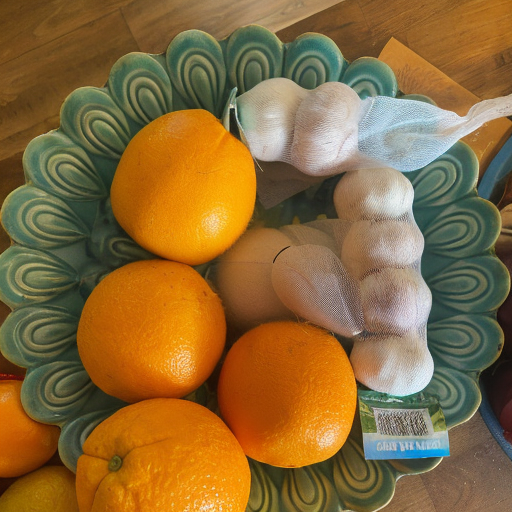
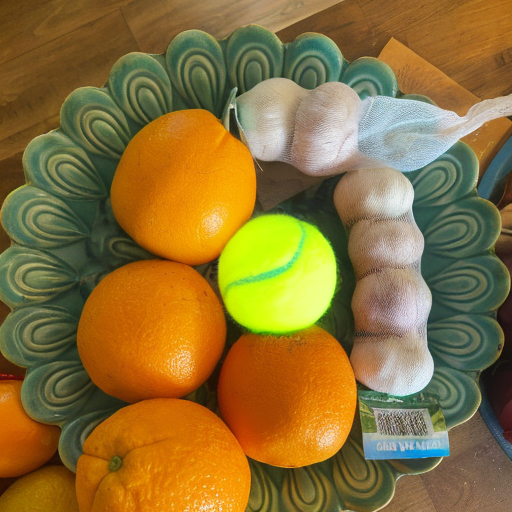
add resampling

Changed region(s): [[0.4062, 0.4062, 0.7812, 0.6875], [0.7188, 0.8125, 0.8438, 0.8438]]

diff --git a/improved_pipeline.py b/improved_pipeline.py
@@ -23,35 +23,43 @@ class ImprovedInpaintPipeline(InpaintPipeline):
     def denoise(self, text_embeddings, init_latents, mask_tensor, num_inference_steps=50):
         self.scheduler.set_timesteps(num_inference_steps, device=self.device)
         latents = torch.randn_like(init_latents)
+        
+        resample_jumps = 2
 
         for i, t in enumerate(self.scheduler.timesteps):
-            # Expand latents for classifier free guidance
-            latent_model_input = torch.cat([latents] * 2)
-            latent_model_input = self.scheduler.scale_model_input(latent_model_input, t)
 
-            # Predict noise
-            with torch.no_grad():
-                noise_pred = self.unet(latent_model_input, t, encoder_hidden_states=text_embeddings).sample
-
-            # Perform guidance
-            noise_pred_uncond, noise_pred_text = noise_pred.chunk(2)
-            noise_pred = noise_pred_uncond + 7.5 * (noise_pred_text - noise_pred_uncond)
-
-            # Step the scheduler
-            latents = self.scheduler.step(noise_pred, t, latents).prev_sample
-
-            # --- THE VANILLA INPAINTING MAGIC HAPPENS HERE ---
+            # compute timestep
             if i < len(self.scheduler.timesteps) - 1:
                 t_next = self.scheduler.timesteps[i + 1]
             else:
                 t_next = torch.tensor([0], device=self.device)
+            
+            for j in range(resample_jumps):
+                # Expand latents for classifier free guidance
+                latent_model_input = torch.cat([latents] * 2)
+                latent_model_input = self.scheduler.scale_model_input(latent_model_input, t)
+                noise_pred = self.unet(latent_model_input, t, encoder_hidden_states=text_embeddings).sample
 
-            # 1. Add noise to the original image matching the level we JUST stepped to
-            noise = torch.randn_like(init_latents)
-            noisy_init_latents = self.scheduler.add_noise(init_latents, noise, t_next)
+                # Perform guidance
+                noise_pred_uncond, noise_pred_text = noise_pred.chunk(2)
+                noise_pred = noise_pred_uncond + 7.5 * (noise_pred_text - noise_pred_uncond)
 
-            # 2. Blend the accurately aligned latents
-            latents = (noisy_init_latents * (1 - mask_tensor)) + (latents * mask_tensor)
+                # Step the scheduler
+                latents_t_next = self.scheduler.step(noise_pred, t, latents).prev_sample
+
+
+                # 1. Add noise to the original image matching the level we JUST stepped to
+                noise = torch.randn_like(init_latents)
+                noisy_background = self.scheduler.add_noise(init_latents, noise, t_next)
+                
+                # 2. Blend the accurately aligned latents
+                blended_latents = (noisy_background * (1 - mask_tensor)) + (latents_t_next * mask_tensor)
+
+            if j < resample_jumps - 1:
+                jump_noise = torch.randn_like(init_latents)
+                latents = self.scheduler.add_noise(blended_latents, jump_noise, t)
+            else:
+                latents = blended_latents
         return latents
             
     def prepare_mask_tensor(self, mask_image):

diff --git a/vanilla_pipeline.py b/vanilla_pipeline.py
@@ -54,7 +54,7 @@ class InpaintPipeline(SD2InpaintingPipeLineScheme):
         self.scheduler.set_timesteps(num_inference_steps, device=self.device)
         latents = torch.randn_like(init_latents)
 
-        for i, t in tqdm(enumerate(self.scheduler.timesteps)):
+        for i, t in enumerate(self.scheduler.timesteps):
             # Expand latents for classifier free guidance
             latent_model_input = torch.cat([latents] * 2)
             latent_model_input = self.scheduler.scale_model_input(latent_model_input, t)
